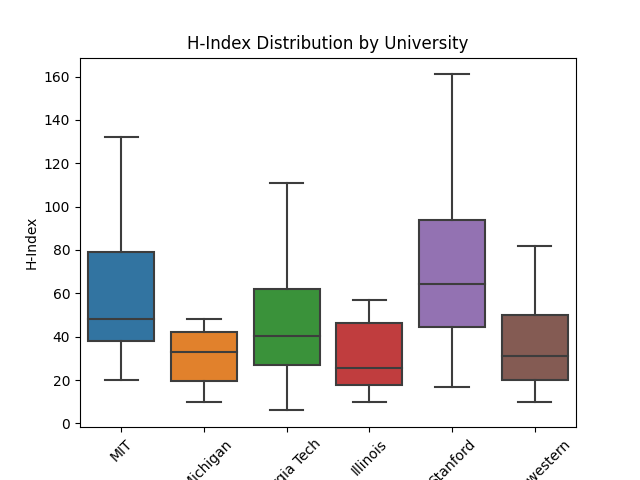
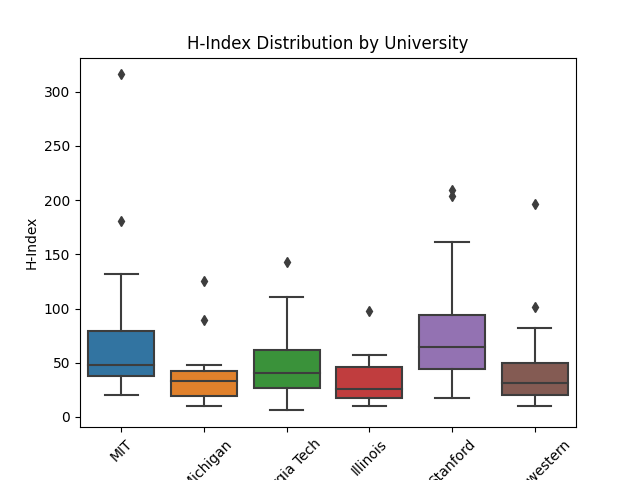
updated to show outliers

diff --git a/graph.py b/graph.py
@@ -6,8 +6,8 @@ def graph():
     df = pd.read_csv('metrics.csv')
     print(df.head())
 
-    # by default, outliers are not included. This helps pretty the plot
-    sns.boxplot(x=df['Affiliation'], y=df['H-index'], showfliers=False) 
+    # by default, outliers should not be included. This helps pretty the plot
+    sns.boxplot(x=df['Affiliation'], y=df['H-index'], showfliers=True) 
     plt.xlabel('University')
     plt.ylabel('H-Index')
     plt.title('H-Index Distribution by University')
